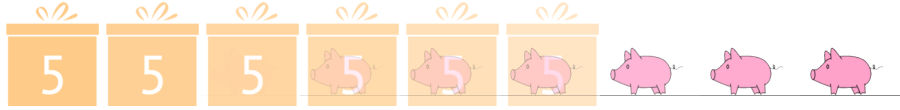
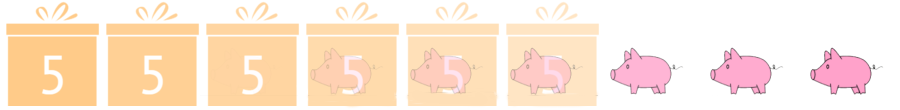
Fix a bug

Changed region(s): [[0.4356, 0.8455, 1.0, 0.8727]]

diff --git a/card/01/js/game/scene.js b/card/01/js/game/scene.js
@@ -88,7 +88,7 @@ class Scene extends Phaser.Scene {
             setXY: {
                 x: 270,
                 y: 30,
-                stepX: 30,
+                stepX: 25,
             },
         });
         this.timeCheck = 0;
@@ -107,7 +107,7 @@ class Scene extends Phaser.Scene {
                 });
             if (++this.timeCheck > 400 && this.level !== 9) {
                 this.timeCheck = 0;
-                list[list.length - this.level].x += 320;
+                list[list.length - this.level].x += 220;
                 this.level++;
                 this.reset();
                 this.setData(this.data[this.level - 1]);
